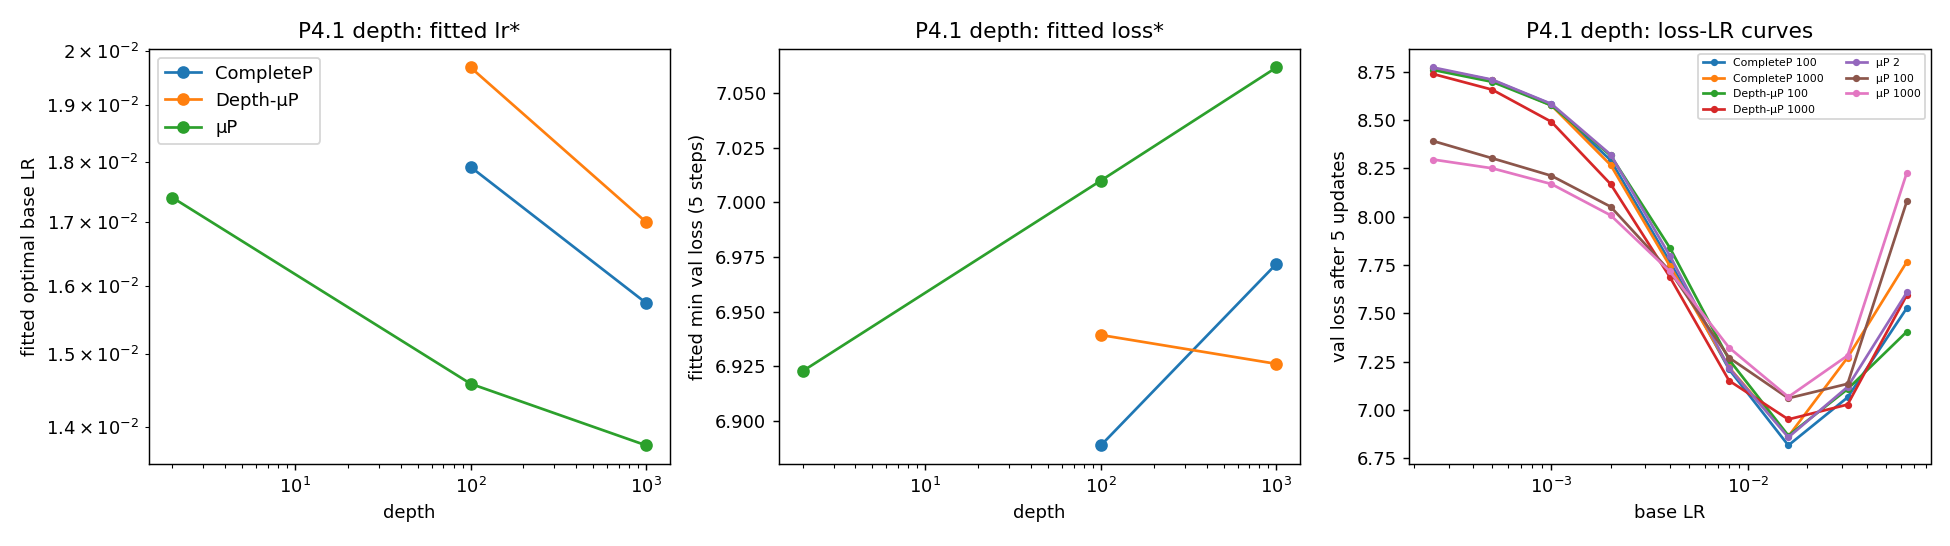
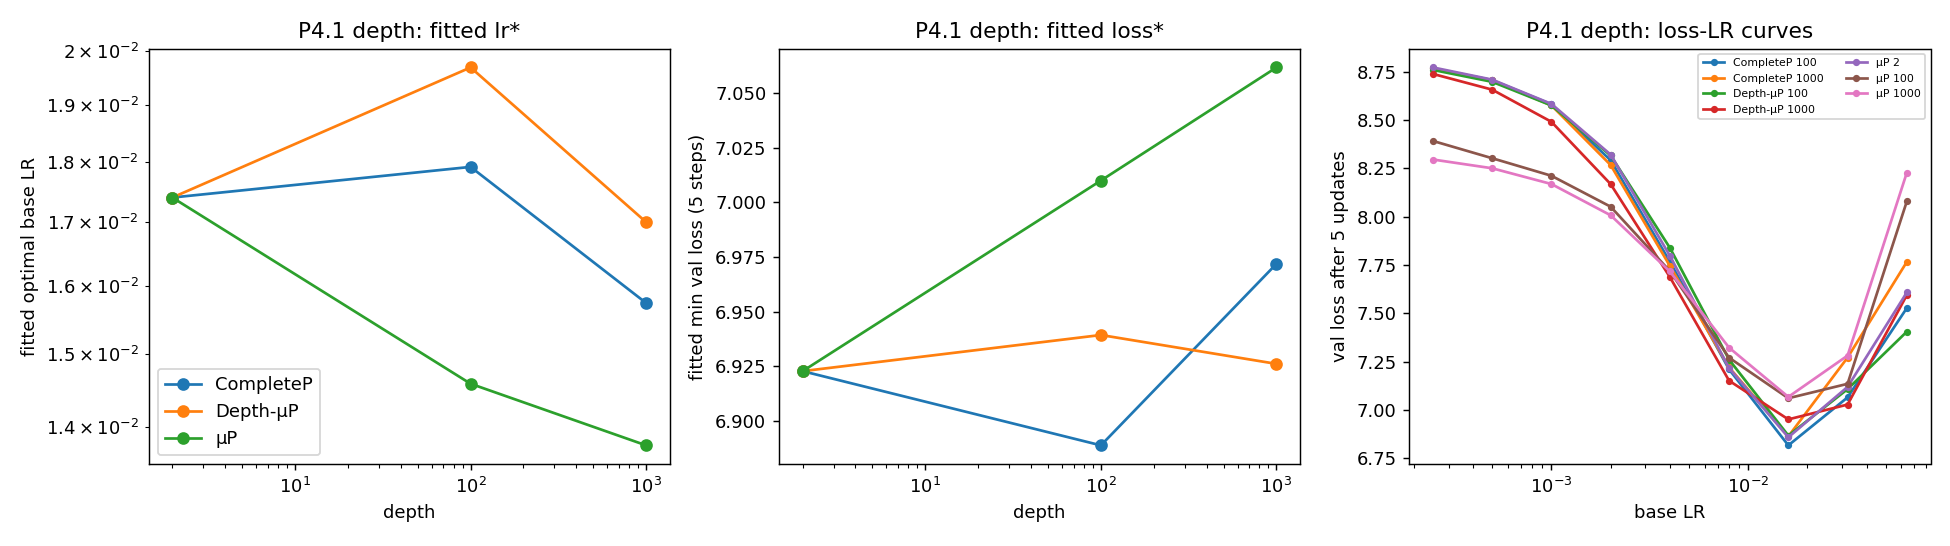
A2 WRITEUP: P2 example question (postponed weight decay); depth-2 shared point in P4.1 depth figure

diff --git a/experiments/a2/analysis/plots.py b/experiments/a2/analysis/plots.py
@@ -19,12 +19,15 @@ def p41():
     for test, xlabel in (('width', 'width'), ('depth', 'depth')):
         rows = [f for f in fits if f['test'] == test]
         fig, axes = plt.subplots(1, 3, figsize=(15, 4.2))
+        shared = [f for f in rows if test == 'depth' and f['size'] == 2]  # depth 2 is the same model under every prescription
         for pol in dict.fromkeys(f['policy'] for f in rows):
-            sub = sorted((f for f in rows if f['policy'] == pol), key=lambda f: f['size'])
+            sub = sorted((f for f in rows if f['policy'] == pol or f in shared), key=lambda f: f['size'])
             xs = [f['size'] for f in sub]
             axes[0].plot(xs, [f['lr_star'] for f in sub], 'o-', label=LABEL[pol])
             axes[1].plot(xs, [f['loss_star'] for f in sub], 'o-', label=LABEL[pol])
             for f in sub:
+                if f in shared and pol != 'mup':
+                    continue
                 lrs = sorted(float(k) for k in f['losses'])
                 axes[2].plot(lrs, [f['losses'][k] for k in sorted(f['losses'], key=float)], 'o-', ms=3, label=f"{LABEL[pol]} {f['size']}")
         axes[0].set(xscale='log', yscale='log', xlabel=xlabel, ylabel='fitted optimal base LR', title=f'P4.1 {test}: fitted lr*')

diff --git a/experiments/a2/WRITEUP.md b/experiments/a2/WRITEUP.md
@@ -236,6 +236,28 @@ lesson: a weight decay of 1.6 that was optimal at 153.6M tokens is 17× too larg
 
 ---
 
+### Example question (Medium) — can we postpone weight decay?
+
+Setup: 153.6M tokens, learning rate 0.0015, weight decay 0.4, three seeds. Instead of shrinking the
+weights by (1 − η_t λ) at every update, shrink them once per block of 2 or 4 updates by the product
+of the skipped factors, so the *cumulative* shrinkage is identical.
+
+Prediction from the Problem 2 picture: weight decay's job is to set the averaging window — the
+weights are an exponential moving average of recent updates with timescale 1/(ηλ). At
+learning rate 0.0015 and weight decay 0.4 that window is about 1,700 updates. Applying the same
+total shrinkage every 2 or 4 steps instead of every step is a change at the scale of a few updates
+against a window of 1,700, so the final loss should not move. The weights themselves will differ
+(the shrink happens before different gradient steps, so the trajectory is not preserved), but the
+loss should be the same to within seed noise.
+
+**Answer.** All three schedules give mean loss ≈ 3.21 (course answer key). Matching cumulative
+retention does not preserve the trajectory, yet both delays match per-step decay in final loss.
+This is the same lesson as P2(c): what matters is the product ηλ (the timescale), not the exact
+step on which the decay is applied. Our P2(c) runs show how insensitive the loss is near the right
+timescale — weight decay 0.0927 and 0.1 at learning rate 0.003 differ by 0.0009 — and how
+sensitive it is far from it (weight decay 1.6 costs 0.085). A 2–4 step delay is a tiny
+perturbation of the timescale, far inside the flat region.
+
 ## Problem 3.1 — What does the noisy quadratic model predict about batch size? (CPU)
 
 **Question.** In a 2-D quadratic with noisy gradients and a fixed dataset of N = 8192 samples
